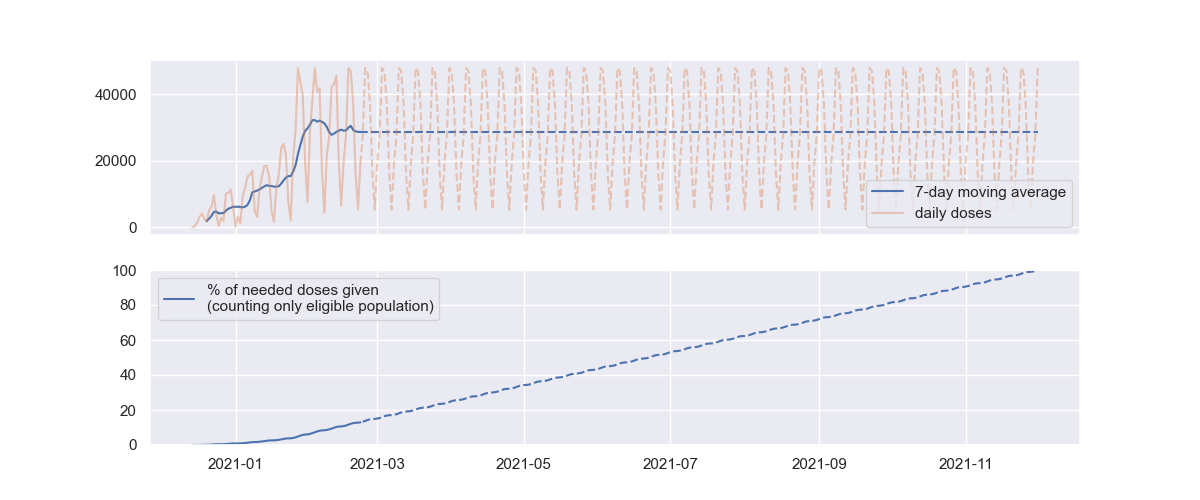
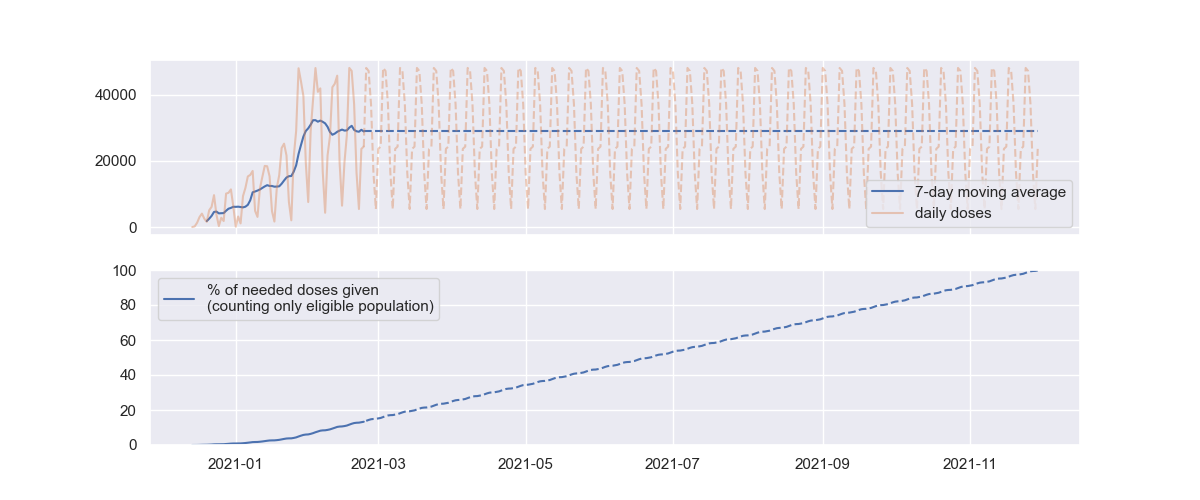
2021-02-24

diff --git a/README.md b/README.md
@@ -10,9 +10,9 @@ Raw data was obtained from https://www.dhs.wisconsin.gov/covid-19/vaccine-data.h
 
 ```
 $ python trax.py
-28433 average doses per day over past 7 days (-914 compared to 2 weeks ago)
-52.5 weeks (2022-02-23) for EVERY PERSON to get 2 doses
-40.8 weeks (2021-12-03) for all eligible people (over 16 years old) to get 2 doses
+28853 average doses per day over past 7 days (-327 compared to 2 weeks ago)
+51.5 weeks (2022-02-18) for EVERY PERSON to get 2 doses
+40.0 weeks (2021-11-29) for all eligible people (over 16 years old) to get 2 doses
 ```
 
 # Charts
